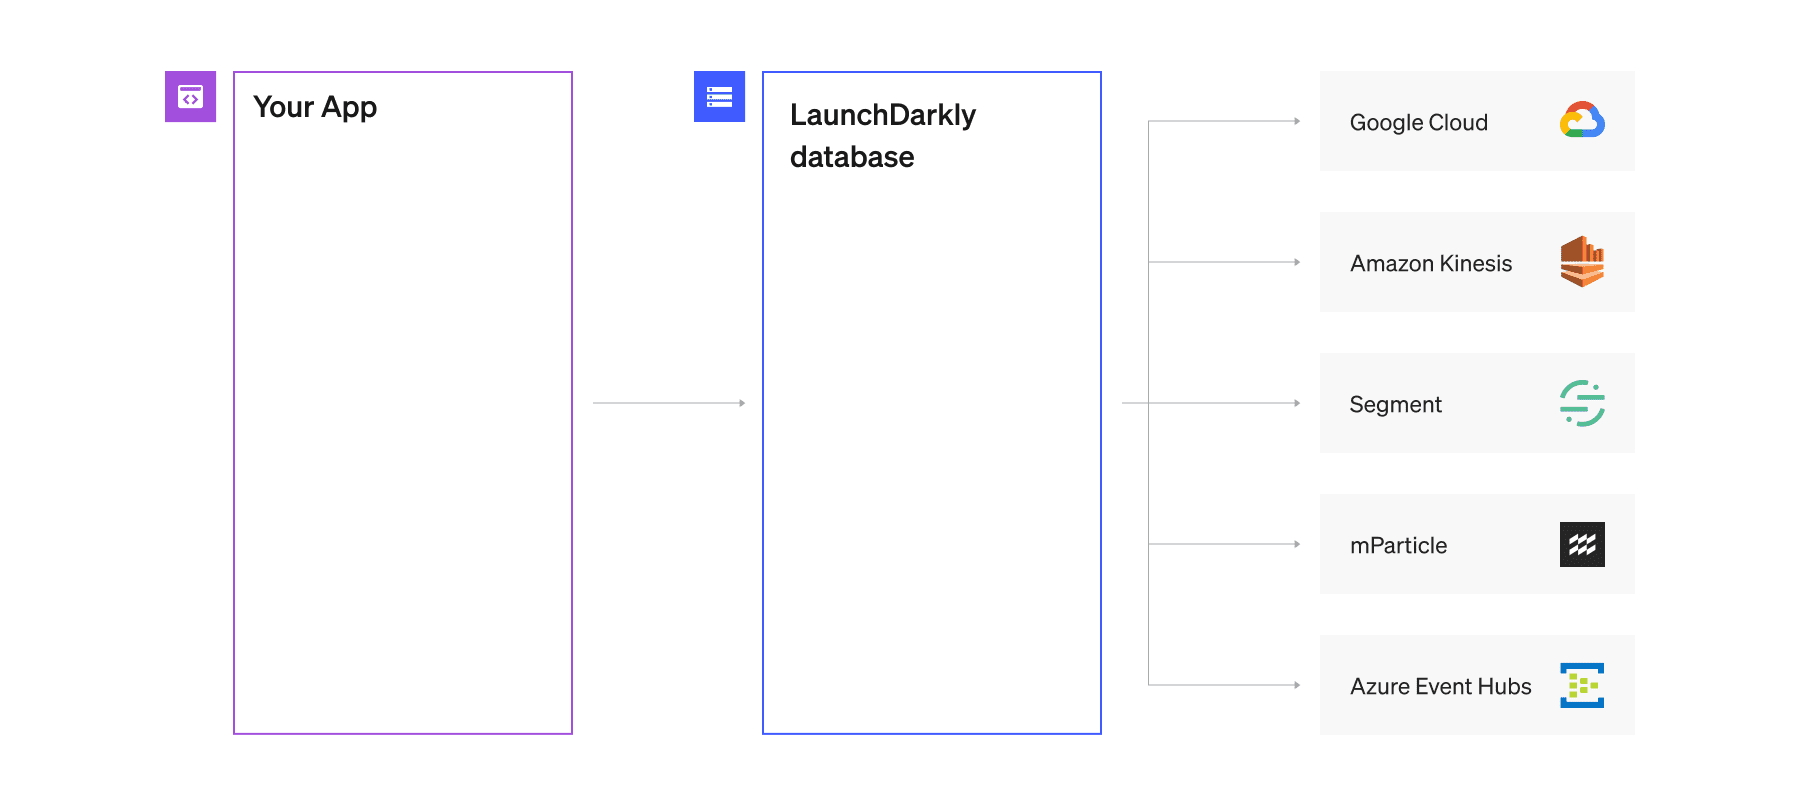
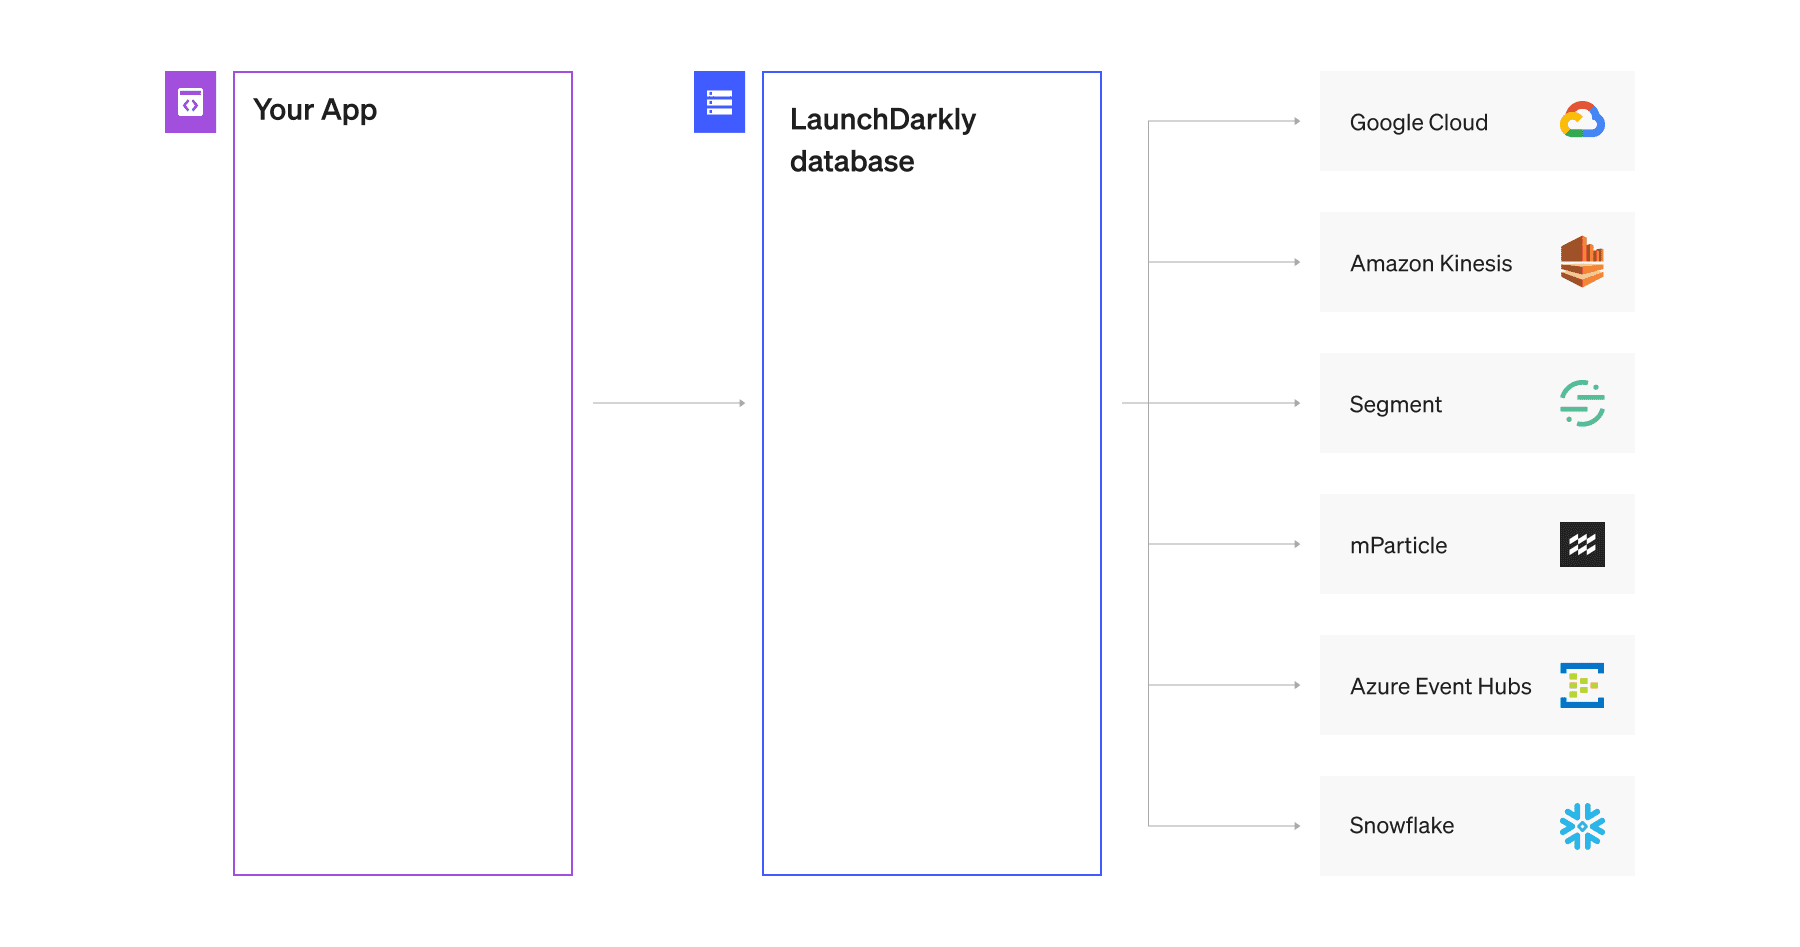
[sc-194871] Snowflake Documentation (#2988)
* first draft

* attempt to disable spellcheck

* undo commit of attempted local fix

* add codesample regarding setup in snowflake

* add schema reference, update main index

* close tags

* whitespace

* Adds Snowflake .svg for integrations page

* Apply suggestions from code review

* Adds snowflake to integrations index

* replaces data export image

* Update src/content/topics/home/data-export/snowflake.mdx

* not available in federal

* dont spellcheck sql

* pr feedback

* pr feedback

* Apply suggestions from code review

* pr feedback

* typo

* update comments to use newer react/gatsby format

* table format cleanup

* update image spacing

* temporarily remove missing image

* remove empty heading

* add changelog entry

---------

diff --git a/src/components/home/sdks/allIntegrations.tsx b/src/components/home/sdks/allIntegrations.tsx
@@ -302,6 +302,12 @@ const AllIntegrations = () => {
       svg: 'integrations/sleuth',
     },
     {
+      label: 'Snowflake',
+      shortLabel: 'Snowflake',
+      path: '/home/data-export/snowflake',
+      svg: 'integrations/snowflake',
+    },
+    {
       label: 'Snowplow',
       shortLabel: 'Snowplow',
       path: '/integrations/snowplow',
